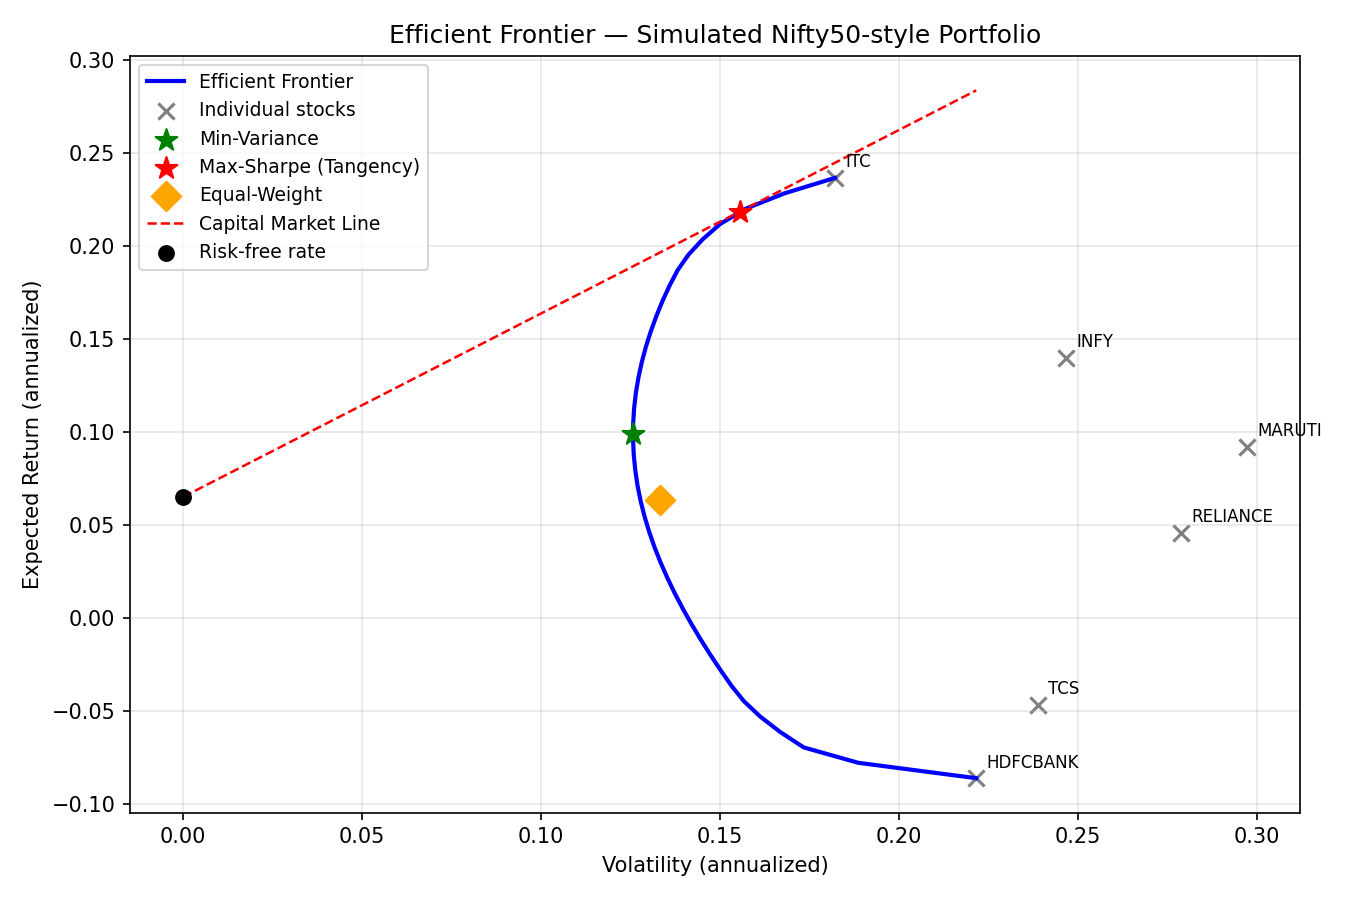
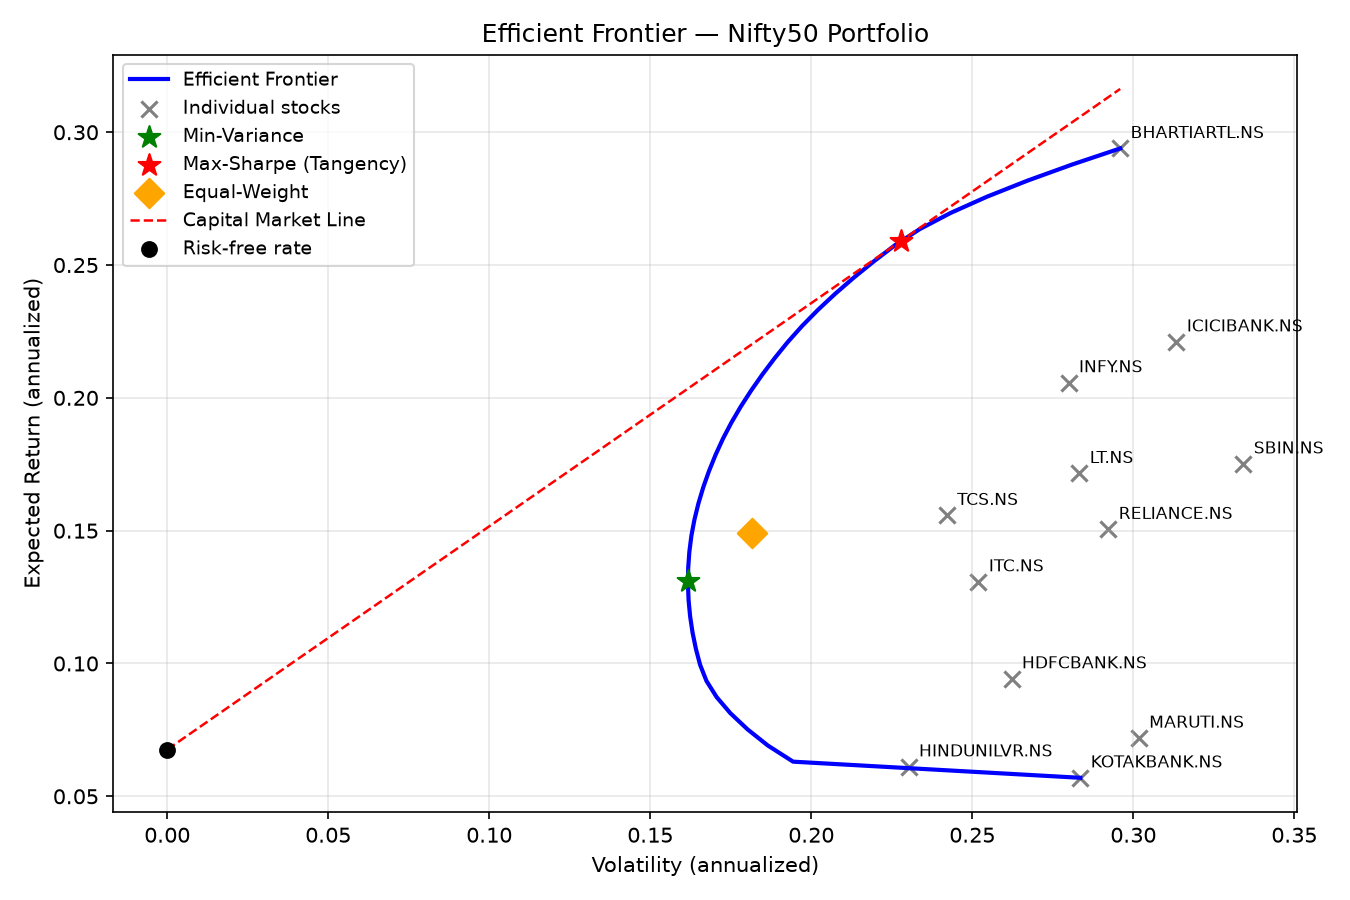
chore: sync verified files, fix risk-free rate consistency to 6.76%

diff --git a/src/portfolio.py b/src/portfolio.py
@@ -1,17 +1,40 @@
+"""
+Step 2 & 3: Estimation + Optimization engine.
+
+Every function here is a direct code version of something we derived by hand:
+- compute_returns / compute_mu_sigma  -> Steps 1-2 of the worked example
+- portfolio_return / portfolio_variance -> the w^T Sigma w quadratic form
+- min_variance_portfolio -> the Lagrangian-derived w_MVP (numerically, with w>=0)
+- max_sharpe_portfolio   -> the tangency portfolio (numerically, with w>=0)
+- efficient_frontier     -> sweeping target returns, same as the frontier table
+"""
+
 import numpy as np
 import pandas as pd
 from scipy.optimize import minimize
 
 
 def compute_returns(prices: pd.DataFrame, log_returns: bool = True) -> pd.DataFrame:
-    
+    """
+    Convert a price DataFrame (rows=days, cols=tickers) into daily returns.
+    Log returns are used by default -- they're additive over time, which
+    makes multi-day compounding and later statistics better behaved than
+    simple returns.
+    """
     if log_returns:
         return np.log(prices / prices.shift(1)).dropna(how="all")
     return prices.pct_change().dropna(how="all")
 
 
 def compute_mu_sigma(returns: pd.DataFrame, annualize: bool = True):
-    
+    """
+    mu    -> mean return per stock (Step 2 in the worked example)
+    sigma -> full covariance matrix (Step 3 in the worked example)
+
+    annualize=True scales daily stats to yearly, using the standard
+    sqrt(time) convention for volatility and linear scaling for mean
+    return. 252 = approx. number of trading days in a year.
+    """
     mu = returns.mean()
     sigma = returns.cov()
     if annualize:
@@ -21,12 +44,12 @@ def compute_mu_sigma(returns: pd.DataFrame, annualize: bool = True):
 
 
 def portfolio_return(weights: np.ndarray, mu: np.ndarray) -> float:
-    
+    """w . mu -- weighted average return."""
     return float(np.dot(weights, mu))
 
 
 def portfolio_variance(weights: np.ndarray, sigma: np.ndarray) -> float:
-    
+    """w^T Sigma w -- the quadratic form we expanded by hand for 3 assets."""
     return float(weights @ sigma @ weights)
 
 
@@ -35,7 +58,7 @@ def portfolio_volatility(weights: np.ndarray, sigma: np.ndarray) -> float:
 
 
 def _base_constraints(n):
-    
+    """Weights sum to 1, no short-selling (0 <= w_i <= 1)."""
     cons = ({"type": "eq", "fun": lambda w: np.sum(w) - 1},)
     bounds = tuple((0.0, 1.0) for _ in range(n))
     w0 = np.array([1 / n] * n)
@@ -43,7 +66,11 @@ def _base_constraints(n):
 
 
 def min_variance_portfolio(sigma: pd.DataFrame):
-    
+    """
+    The Global Minimum Variance portfolio. Ignores mu entirely --
+    exactly as derived: this is the one portfolio that never needs
+    expected returns as an input.
+    """
     n = len(sigma)
     cons, bounds, w0 = _base_constraints(n)
     result = minimize(
@@ -55,8 +82,12 @@ def min_variance_portfolio(sigma: pd.DataFrame):
     return pd.Series(result.x, index=sigma.columns)
 
 
-def max_sharpe_portfolio(mu: pd.Series, sigma: pd.DataFrame, risk_free_rate: float = 0.065):
-    
+def max_sharpe_portfolio(mu: pd.Series, sigma: pd.DataFrame, risk_free_rate: float = 0.0676):
+    """
+    The tangency / max-Sharpe portfolio. risk_free_rate defaults to a
+    rough Indian 10Y G-Sec-ish figure (annualized) -- replace with the
+    actual prevailing rate for your test period when you run this for real.
+    """
     n = len(sigma)
     cons, bounds, w0 = _base_constraints(n)
 
@@ -75,7 +106,14 @@ def max_sharpe_portfolio(mu: pd.Series, sigma: pd.DataFrame, risk_free_rate: flo
 
 
 def efficient_frontier(mu: pd.Series, sigma: pd.DataFrame, n_points: int = 30):
-    
+    """
+    Sweep target returns from the lowest to highest single-asset mean,
+    minimizing variance at each -- same process as the frontier table
+    we built by hand, just at finer resolution.
+
+    Returns a DataFrame with columns: target_return, volatility, and
+    one column per ticker holding that point's weights.
+    """
     n = len(sigma)
     _, bounds, w0 = _base_constraints(n)
     targets = np.linspace(mu.min(), mu.max(), n_points)

diff --git a/src/backtest.py b/src/backtest.py
@@ -1,3 +1,11 @@
+"""
+Step 5 & 6: Train/test split and benchmarking.
+
+This is the "honesty check" step: estimate mu and sigma ONLY on the
+training window, lock in the resulting weights, then see how those
+fixed weights actually perform on a test window the optimizer never saw.
+"""
+
 import numpy as np
 import pandas as pd
 from portfolio import (
@@ -8,13 +16,17 @@ from portfolio import (
 
 
 def train_test_split_prices(prices: pd.DataFrame, train_frac: float = 0.7):
-    
+    """Chronological split -- never shuffle time series data."""
     split_idx = int(len(prices) * train_frac)
     return prices.iloc[:split_idx], prices.iloc[split_idx:]
 
 
 def realized_performance(weights: pd.Series, test_returns: pd.DataFrame, annualize: bool = True):
-    
+    """
+    Given fixed weights (chosen using only training data) and the ACTUAL
+    returns that happened in the test window, compute what really happened
+    -- not what the optimizer predicted would happen.
+    """
     # daily portfolio return series over the test window
     port_daily = test_returns @ weights
     realized_mean = port_daily.mean()
@@ -33,8 +45,16 @@ def realized_performance(weights: pd.Series, test_returns: pd.DataFrame, annuali
     }
 
 
-def run_backtest(prices: pd.DataFrame, train_frac: float = 0.7, risk_free_rate: float = 0.0676):
-    
+def run_backtest(prices: pd.DataFrame, train_frac: float = 0.7, risk_free_rate: float = 0.065):
+    """
+    Full walk-forward test:
+      1. Split prices chronologically into train/test.
+      2. Estimate mu, sigma on TRAIN only.
+      3. Solve min-variance, max-Sharpe, and equal-weight portfolios using
+         only that training information.
+      4. Apply those FIXED weights to the TEST window's actual returns.
+      5. Return a comparison table.
+    """
     train_prices, test_prices = train_test_split_prices(prices, train_frac)
 
     train_returns = compute_returns(train_prices, log_returns=True)

diff --git a/src/fetch_data.py b/src/fetch_data.py
@@ -1,7 +1,19 @@
+"""
+Step 1: Data collection.
+
+Pulls historical daily adjusted close prices for a basket of Nifty50 stocks
+using yfinance. Run this on a machine with internet access — it will not
+run inside a sandboxed/offline environment.
+
+Usage:
+    python fetch_data.py
+"""
+
 import yfinance as yf
 import pandas as pd
 
-
+# 12 liquid, well-known Nifty50 constituents across different sectors.
+# Yahoo Finance uses the ".NS" suffix for NSE-listed tickers.
 TICKERS = [
     "RELIANCE.NS",   # Energy / Conglomerate
     "TCS.NS",        # IT
@@ -17,21 +29,22 @@ TICKERS = [
     "MARUTI.NS",     # Auto
 ]
 
-BENCHMARK = "^NSEI"
+# Benchmark index for later comparison
+BENCHMARK = "^NSEI"  # Nifty 50 index
 
 START_DATE = "2019-01-01"
 END_DATE = "2024-12-31"
 
 
 def fetch_prices(tickers=TICKERS, start=START_DATE, end=END_DATE):
-    
+    """Download adjusted close prices for all tickers into one DataFrame."""
     data = yf.download(tickers, start=start, end=end, auto_adjust=True)["Close"]
     data = data.dropna(how="all")
     return data
 
 
 def fetch_benchmark(start=START_DATE, end=END_DATE):
-    
+    """Download the Nifty50 index itself, for benchmarking later."""
     bm = yf.download(BENCHMARK, start=start, end=end, auto_adjust=True)["Close"]
     return bm
 

diff --git a/notebooks/run_real_backtest.py b/notebooks/run_real_backtest.py
@@ -1,0 +1,35 @@
+"""
+Runs the train/test backtest against REAL Nifty50 data
+(data/nifty_prices.csv, produced by src/fetch_data.py) --
+as opposed to test_backtest.py, which validates the same
+logic against synthetic data.
+
+Usage:
+    cd notebooks
+    python run_real_backtest.py
+"""
+
+import sys
+sys.path.append('../src')
+import pandas as pd
+from backtest import run_backtest
+
+RISK_FREE_RATE = 0.0676  # India 10Y G-Sec yield, Aug 2026
+
+price_df = pd.read_csv("../data/nifty_prices.csv", index_col=0, parse_dates=True)
+
+results, w_minvar, w_sharpe, w_eq = run_backtest(
+    price_df, train_frac=0.7, risk_free_rate=RISK_FREE_RATE
+)
+
+pd.set_option('display.width', 140)
+pd.set_option('display.max_columns', None)
+
+print("=== REAL Nifty50 Backtest: EXPECTED (train) vs REALIZED (test) ===\n")
+print(results.round(4))
+
+print("\n=== Min-Variance weights (chosen from training data only) ===")
+print(w_minvar.round(3))
+
+print("\n=== Max-Sharpe weights (chosen from training data only) ===")
+print(w_sharpe.round(3))

diff --git a/notebooks/plot_frontier.py b/notebooks/plot_frontier.py
@@ -1,3 +1,18 @@
+"""
+Step 7: Visualization.
+
+Draws the efficient frontier, marks the three key portfolios
+(min-variance, max-Sharpe, equal-weight), plots individual stocks
+for comparison, and draws the Capital Market Line through the
+max-Sharpe (tangency) portfolio.
+
+Usage:
+    cd notebooks
+    python plot_frontier.py
+
+Reads prices from ../data/nifty_prices.csv (run fetch_data.py first).
+"""
+
 import sys
 sys.path.append('../src')
 import numpy as np
@@ -9,7 +24,7 @@ from portfolio import (
     portfolio_return, portfolio_volatility
 )
 
-RISK_FREE_RATE = 0.0676
+RISK_FREE_RATE = 0.0676  # placeholder -- replace with the actual rate for your period
 
 
 def main():
